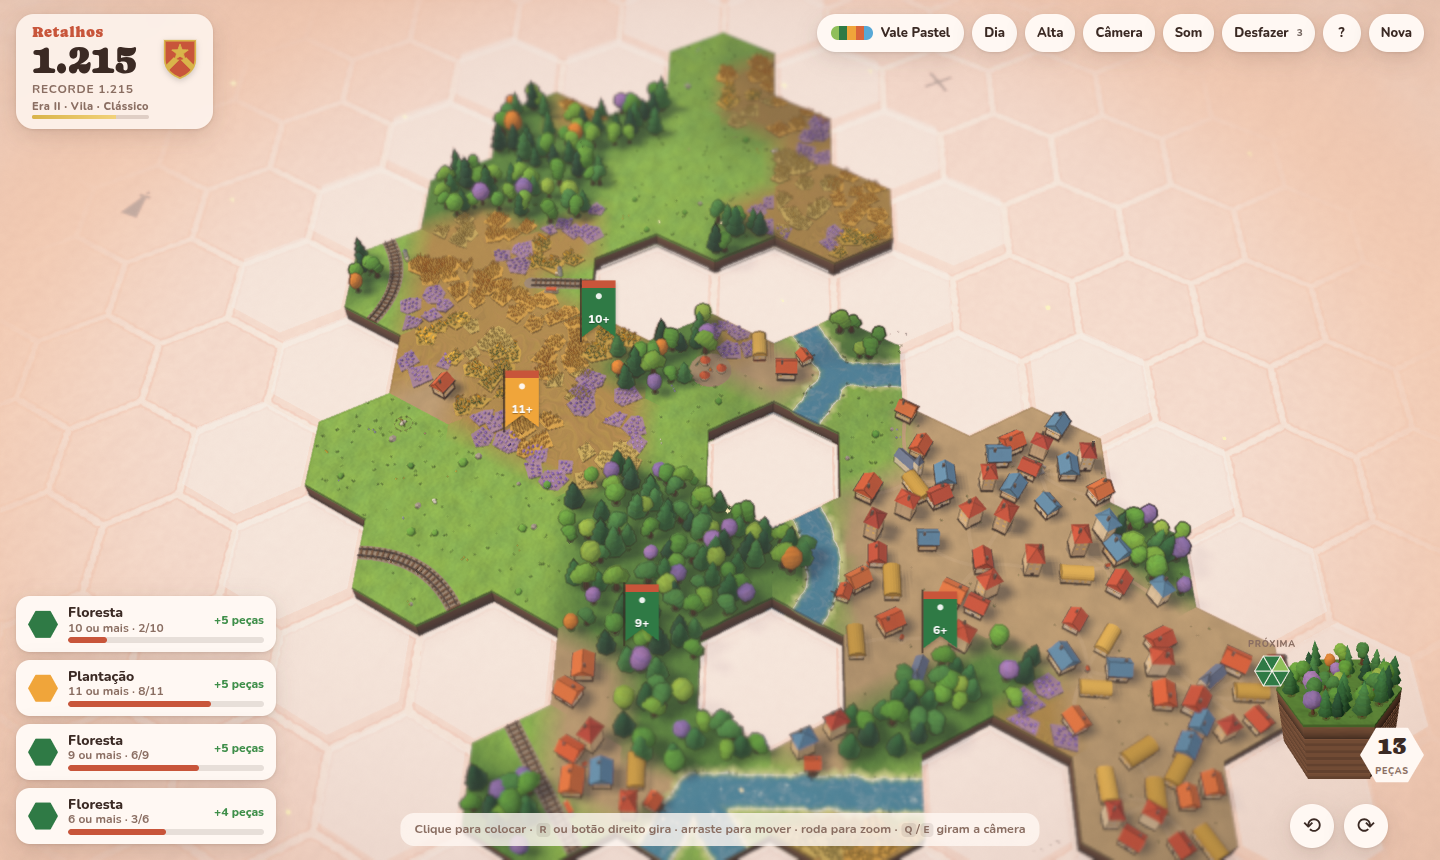
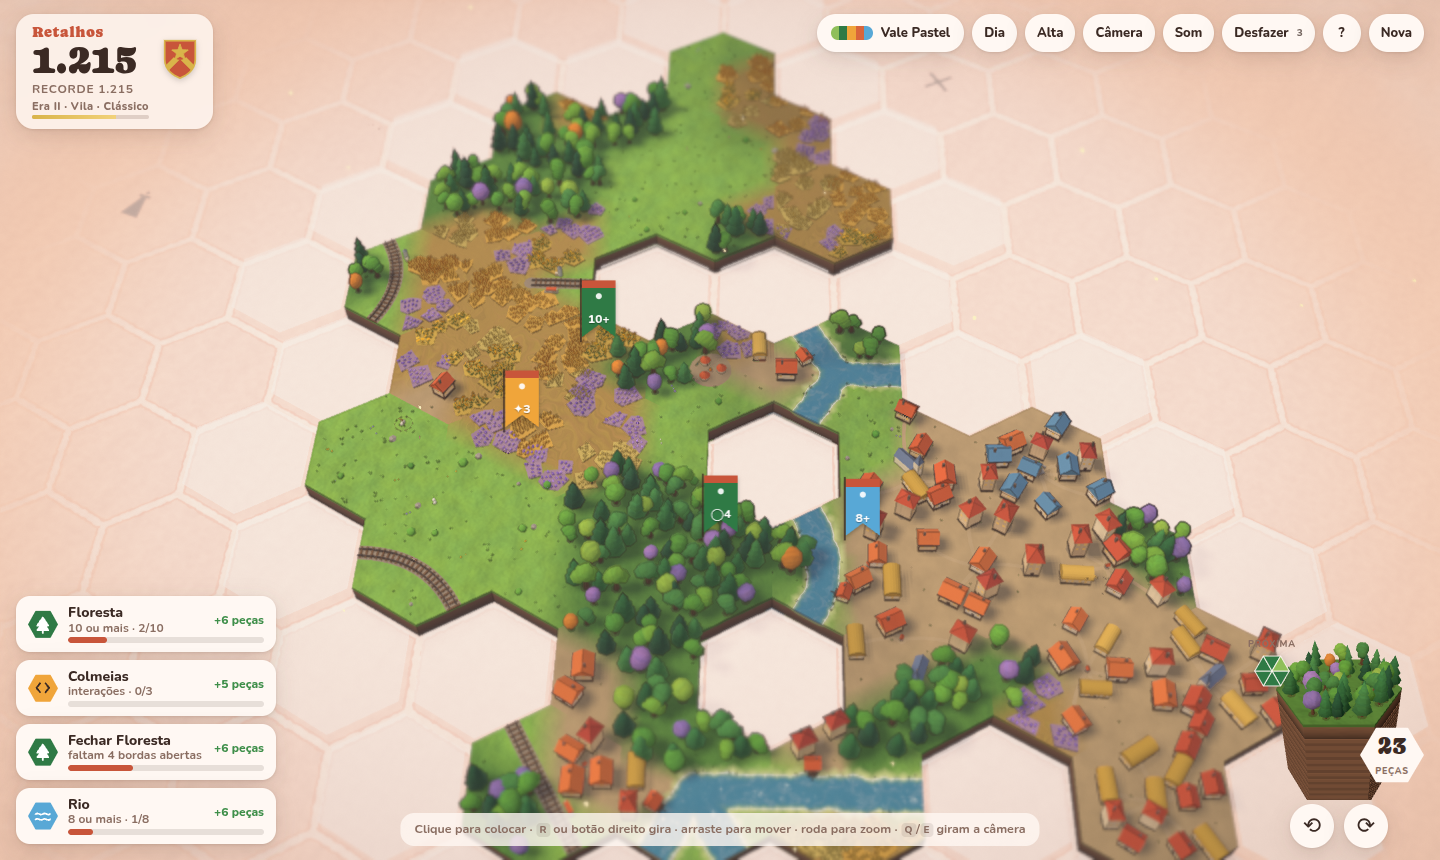
Deixa a noite jogável e as vilas legíveis de longe
A luz da noite fica mais clara e menos azul, o bastante para prado, floresta e
plantação não se confundirem; o teste de legibilidade passa a conferir isso em
todos os temas. Cada peça usa uma cor de telhado por tipo de casa (com 20% de
exceções), e a vila lê como um bloco de cor visto de longe.

Claude-Session: https://claude.ai/code/session_01Rh1yKK1iseATX43gyQgWnr

diff --git a/tests/legibility.ts b/tests/legibility.ts
@@ -3,6 +3,7 @@
 // da vila, ponderada pelo peso das casas, e falha quando uma parte grande das casas some.
 import { T } from '../src/core/tiles';
 import { THEMES } from '../src/themes/themes';
+import { NIGHT_LIGHT } from '../src/render/nightLight';
 
 const ROOF_MIN = 15;
 const WALL_MIN = 12;
@@ -49,4 +50,34 @@ for (const th of THEMES) {
   console.log(`  ${th.id.padEnd(9)} telhado ΔE mín ${roof.worst.toFixed(0).padStart(3)} (${pct(roof.low)} abaixo de ${ROOF_MIN})  parede ΔE mín ${wall.worst.toFixed(0).padStart(3)} (${pct(wall.low)} abaixo de ${WALL_MIN})${bad ? '  ← ilegível' : ''}`);
 }
 console.log(`Legibilidade: ${THEMES.length} temas, ${failed} com casas que somem no chão da vila`);
-if (failed) process.exit(1);
+
+// Noite: prado, mata e plantação precisam continuar distintos. Modelo simples de luz (difusa do
+// sol ou do luar mais o céu, em RGB linear) sobre a cor do chão de cada terreno; a menor diferença
+// entre os três à noite tem de ficar em pelo menos metade da do dia.
+const NIGHT_SHARE = 0.5;
+const linRgb = (hex: string) => {
+  const n = parseInt(hex.slice(1), 16);
+  const lin = (c: number) => ((c /= 255) <= 0.04045 ? c / 12.92 : ((c + 0.055) / 1.055) ** 2.4);
+  return [lin(n >> 16), lin((n >> 8) & 255), lin(n & 255)];
+};
+const labOf = ([r, g, b]: number[]) => {
+  const x = (r * 0.4124 + g * 0.3576 + b * 0.1805) / 0.95047, y = r * 0.2126 + g * 0.7152 + b * 0.0722, z = (r * 0.0193 + g * 0.1192 + b * 0.9505) / 1.08883;
+  const f = (t: number) => (t > 0.008856 ? Math.cbrt(t) : 7.787 * t + 16 / 116);
+  return [116 * f(y) - 16, 500 * (f(x) - f(y)), 200 * (f(y) - f(z))];
+};
+let darkFailed = 0;
+for (const th of THEMES) {
+  const minPair = (sun: string, sunI: number, sky: string, skyI: number) => {
+    const s = linRgb(sun), k = linRgb(sky);
+    const lit = [T.Grass, T.Forest, T.Field].map((t) => labOf(linRgb(th.ground[t]).map((v, i) => (v * (s[i] * sunI * 0.8 + k[i] * skyI * 0.5) * 1.6) / Math.PI)));
+    const d = (a: number[], b: number[]) => Math.hypot(a[0] - b[0], a[1] - b[1], a[2] - b[2]);
+    return Math.min(d(lit[0], lit[1]), d(lit[0], lit[2]), d(lit[1], lit[2]));
+  };
+  const day = minPair(th.sun, th.sunIntensity, th.hemiSky, th.hemiIntensity);
+  const night = minPair(NIGHT_LIGHT.sun, NIGHT_LIGHT.sunI, NIGHT_LIGHT.hemiSky, NIGHT_LIGHT.hemiI);
+  const bad = night < day * NIGHT_SHARE;
+  if (bad) darkFailed++;
+  console.log(`  ${th.id.padEnd(9)} noite: prado, mata e plantação ΔE mín ${night.toFixed(1).padStart(5)} (dia ${day.toFixed(1).padStart(5)}, ${Math.round((night / day) * 100)}%)${bad ? '  ← somem no escuro' : ''}`);
+}
+console.log(`Noite: ${THEMES.length} temas, ${darkFailed} com terrenos que se confundem no escuro`);
+if (failed || darkFailed) process.exit(1);

diff --git a/src/render/tileBuilder.ts b/src/render/tileBuilder.ts
@@ -908,6 +908,9 @@ export function buildTile(edges: readonly T[], seed: number, theme: Theme, opts:
   const trees: [number, number, number][] = [];
   const houseKinds = theme.houses.map((h, i) => [i, h.weight] as const);
   const houses: { x: number; z: number; s: number; sector: number }[] = [];
+  // Cor do telhado por peça (uma por tipo de casa), com uma ou outra exceção: de longe a vila lê
+  // como um bloco de cor, não como confete de telhados vermelhos, azuis e amarelos misturados.
+  const tileRoof = new Map<number, string>();
   const addHouse = (x: number, z: number, baseAng: number, sector = -1) => {
     const i = weighted(rng, houseKinds);
     const kind = theme.houses[i];
@@ -917,7 +920,10 @@ export function buildTile(edges: readonly T[], seed: number, theme: Theme, opts:
     const sy = randRange(rng, 0.92, 1.12);
     const ry = baseAng + (rng() < 0.5 ? 0 : Math.PI / 2) + (rng() - 0.5) * 0.12;
     D(`wall:${i}`, x, 0, z, ry, [s, s * sy, s], vary(rng, tc(pick(rng, kind.walls)), 0.04));
-    D(`roof:${i}`, x, 0, z, ry, [s, s * sy, s], vary(rng, tc(pick(rng, kind.roofs)), 0.05));
+    let roof = tileRoof.get(i);
+    if (roof === undefined) tileRoof.set(i, (roof = pick(rng, kind.roofs)));
+    else if (rng() < 0.2) roof = pick(rng, kind.roofs);
+    D(`roof:${i}`, x, 0, z, ry, [s, s * sy, s], vary(rng, tc(roof), 0.05));
     if (meta?.chimney && rng() < 0.85) {
       const [cx, cy, cz] = meta.chimney;
       const c = Math.cos(ry), sn = Math.sin(ry);

diff --git a/src/render/world.ts b/src/render/world.ts
@@ -22,6 +22,7 @@ import { FX, Fireflies, Sprites, Weather } from './fx';
 import { LiveTile } from './liveTile';
 import { PreviewView } from './preview';
 import { TILE_T, buildTile, decoMatrix, resolveFlow, tc, type TileBuild } from './tileBuilder';
+import { NIGHT_LIGHT } from './nightLight';
 
 export type { Quality };
 export type TimeOfDay = 'dawn' | 'day' | 'golden' | 'dusk' | 'night';
@@ -376,12 +377,12 @@ function skyFor(theme: Theme, tod: TimeOfDay): Sky {
       bg: mix(theme.bg, '#18203e', 0.9),
       fill: mix(theme.voidFill, '#1f2848', 0.88),
       line: mix(theme.voidLine, '#34426e', 0.82),
-      sun: C('#b4c6ff'),
-      sunI: 0.75,
+      sun: C(NIGHT_LIGHT.sun),
+      sunI: NIGHT_LIGHT.sunI,
       sunDir: new THREE.Vector3(-dx, 0.9, -dz),
-      hemiSky: C('#51639c'),
-      hemiGround: C('#1c2130'),
-      hemiI: 1.05,
+      hemiSky: C(NIGHT_LIGHT.hemiSky),
+      hemiGround: C(NIGHT_LIGHT.hemiGround),
+      hemiI: NIGHT_LIGHT.hemiI,
       night: 1,
       haze: 0.02,
       mist: 0.3,

diff --git a/src/render/nightLight.ts b/src/render/nightLight.ts
@@ -1,0 +1,10 @@
+// Luz da noite (luar e céu), sem three.js: o World a usa em `skyFor` e o teste de legibilidade
+// confere com ela se prado, mata e plantação ainda se distinguem no escuro.
+export const NIGHT_LIGHT = {
+  // Luar forte e pouco azul: com o luar fraco e muito azul, todos os verdes viravam um só.
+  sun: '#c4cef0',
+  sunI: 1.2,
+  hemiSky: '#5d6b96',
+  hemiGround: '#242a3a',
+  hemiI: 1.2,
+} as const;
